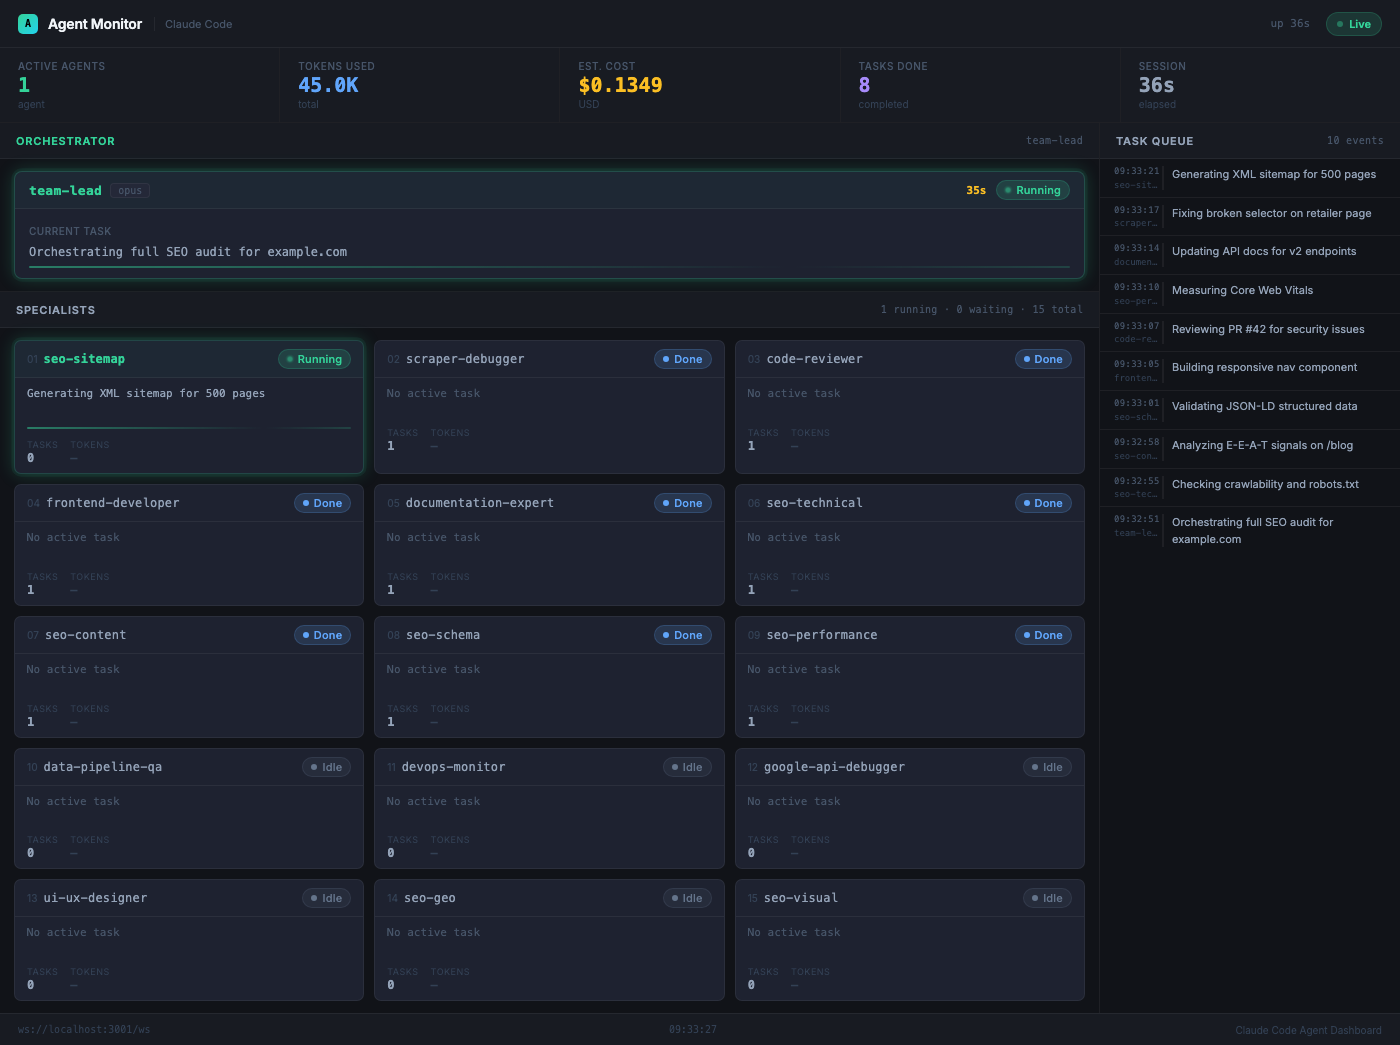
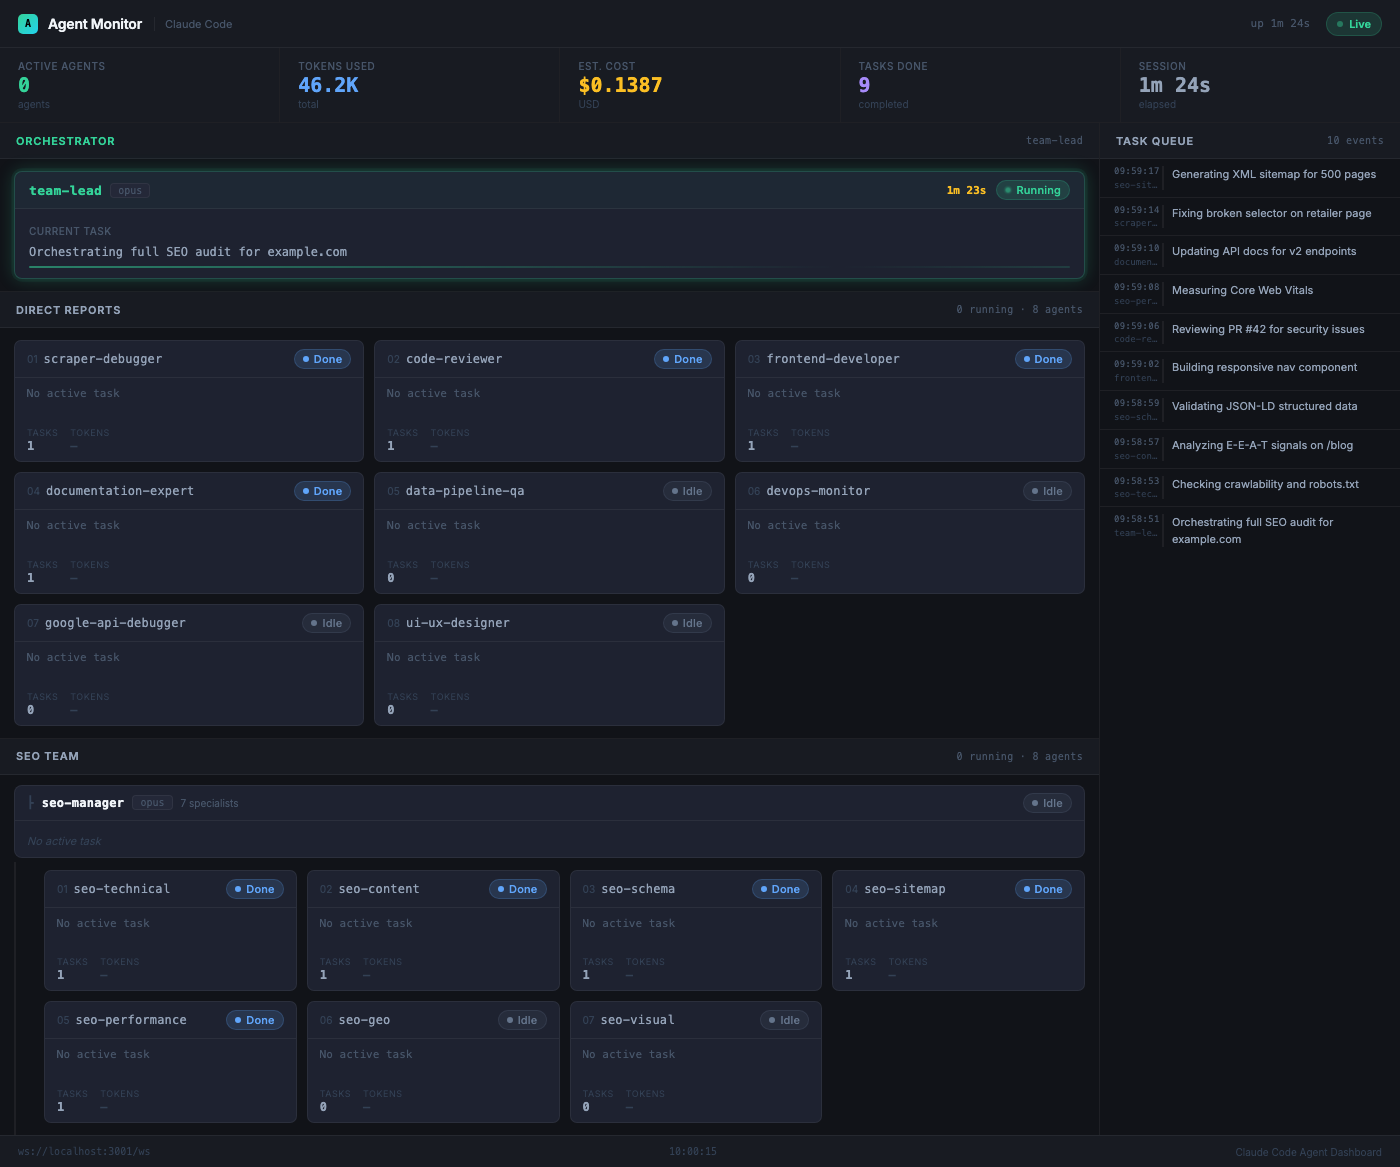
Add hierarchical agent visualization with sub-orchestrator grouping
Team-lead → direct reports + seo-manager → seo-specialists now renders
as a two-level hierarchy in the dashboard UI. README Agent Team section
updated with tree diagram and split tables.

diff --git a/frontend/src/ClaudeCodeDashboard.jsx b/frontend/src/ClaudeCodeDashboard.jsx
@@ -425,8 +425,104 @@ function TeamLeadCard({ agent, elapsedTime }) {
   );
 }
 
+// ─── Sub-orchestrator card (seo-manager) ────────────────────────────────────
+function SubOrchestratorCard({ agent, childCount }) {
+  const isRunning = agent.status === 'running';
+  const m = getStatus(agent.status);
+
+  return (
+    <div style={{
+      margin:          '10px 14px 4px',
+      borderRadius:    8,
+      border:          `1px solid ${isRunning ? T.green + '35' : T.border}`,
+      backgroundColor: T.bgSurfaceHi,
+      overflow:        'hidden',
+      animation:       isRunning ? 'breatheGreen 3s ease-in-out infinite' : 'none',
+      transition:      'border-color 0.3s ease',
+    }}>
+      <div style={{
+        display:         'flex',
+        alignItems:      'center',
+        justifyContent:  'space-between',
+        padding:         '7px 12px',
+        backgroundColor: isRunning ? 'rgba(52,211,153,0.04)' : 'transparent',
+        borderBottom:    `1px solid ${T.border}`,
+      }}>
+        <div style={{ display: 'flex', alignItems: 'center', gap: 8 }}>
+          {/* Tree connector icon */}
+          <span style={{
+            fontFamily: T.mono,
+            fontSize:   11,
+            color:      isRunning ? T.green : T.textDim,
+          }}>
+            &#9507;
+          </span>
+          <span style={{
+            fontFamily:  T.mono,
+            fontSize:    12,
+            fontWeight:  700,
+            color:       isRunning ? T.green : T.textPrimary,
+            letterSpacing: 0.3,
+          }}>
+            seo-manager
+          </span>
+          <span style={{
+            fontFamily:      T.mono,
+            fontSize:        10,
+            color:           T.textMuted,
+            backgroundColor: T.bgOverlay,
+            border:          `1px solid ${T.border}`,
+            padding:         '1px 7px',
+            borderRadius:    4,
+          }}>
+            opus
+          </span>
+          <span style={{
+            fontFamily: T.sans,
+            fontSize:   10,
+            color:      T.textMuted,
+          }}>
+            {childCount} specialists
+          </span>
+        </div>
+        <StatusBadge status={agent.status} />
+      </div>
+
+      {agent.currentTask ? (
+        <div style={{ padding: '8px 12px' }}>
+          <span style={{
+            fontFamily:  T.sans,
+            fontSize:    9,
+            color:       T.textMuted,
+            textTransform: 'uppercase',
+            letterSpacing: 0.5,
+          }}>
+            Current task
+          </span>
+          <p style={{
+            margin:     '3px 0 0',
+            fontFamily: T.mono,
+            fontSize:   11,
+            color:      T.textSecond,
+            lineHeight: 1.5,
+          }}>
+            {agent.currentTask}
+          </p>
+          <ActivityBar active={isRunning} />
+        </div>
+      ) : (
+        <div style={{ padding: '8px 12px' }}>
+          <span style={{ fontFamily: T.sans, fontSize: 11, color: T.textDim, fontStyle: 'italic' }}>
+            No active task
+          </span>
+        </div>
+      )}
+    </div>
+  );
+}
+
 // ─── Specialist card (grid item) ─────────────────────────────────────────────
-function SpecialistCard({ agent, index }) {
+function SpecialistCard({ agent, index, compact }) {
   const isRunning = agent.status === 'running';
   const isWaiting = agent.status === 'waiting';
   const m = getStatus(agent.status);
@@ -748,11 +844,20 @@ export default function ClaudeCodeDashboard() {
 
   const sessionAge = formatTime(now - agentState.globalMetrics.sessionStartTime);
 
-  // Sort: running > waiting > completed > idle
-  const sortedSpecialists = [...specialists].sort((a, b) => {
+  // Sort helper: running > waiting > completed > idle
+  const statusSort = (a, b) => {
     const order = { running: 0, waiting: 1, completed: 2, idle: 3 };
     return (order[a.status] ?? 4) - (order[b.status] ?? 4);
-  });
+  };
+
+  // Split agents into hierarchy
+  const seoSpecialistNames = ['seo-technical', 'seo-content', 'seo-schema', 'seo-sitemap', 'seo-geo', 'seo-performance', 'seo-visual'];
+  const seoManager    = specialists.find((a) => a.name === 'seo-manager') || null;
+  const seoAgents     = specialists.filter((a) => seoSpecialistNames.includes(a.name));
+  const directReports = specialists.filter((a) => a.name !== 'seo-manager' && !seoSpecialistNames.includes(a.name));
+
+  const sortedDirectReports = [...directReports].sort(statusSort);
+  const sortedSeoAgents     = [...seoAgents].sort(statusSort);
 
   return (
     <div style={{
@@ -879,22 +984,48 @@ export default function ClaudeCodeDashboard() {
             <TeamLeadCard agent={agentState.teamLead} elapsedTime={elapsedTime} />
           </div>
 
-          {/* Specialists section */}
+          {/* Direct reports section */}
+          <div style={{ borderBottom: `1px solid ${T.border}` }}>
+            <SectionHeader
+              label="Direct Reports"
+              right={`${directReports.filter(a => a.status === 'running').length} running · ${directReports.length} agents`}
+            />
+            <div style={{
+              display:             'grid',
+              gridTemplateColumns: 'repeat(auto-fill, minmax(280px, 1fr))',
+              gap:                 10,
+              padding:             '12px 14px',
+            }}>
+              {sortedDirectReports.map((agent, i) => (
+                <SpecialistCard key={agent.name} agent={agent} index={i} />
+              ))}
+            </div>
+          </div>
+
+          {/* SEO Team section — nested under seo-manager */}
           <div style={{ flex: 1 }}>
             <SectionHeader
-              label="Specialists"
-              right={`${runningCount} running · ${waitingCount} waiting · ${specialists.length} total`}
+              label="SEO Team"
+              right={`${seoAgents.filter(a => a.status === 'running').length} running · ${seoAgents.length + 1} agents`}
             />
 
-            {/* Card grid — 2 cols on wide, 1 on narrow */}
+            {/* seo-manager sub-orchestrator card */}
+            {seoManager && (
+              <SubOrchestratorCard agent={seoManager} childCount={seoAgents.length} />
+            )}
+
+            {/* SEO specialists grid — indented under seo-manager */}
             <div style={{
-              display:               'grid',
-              gridTemplateColumns:   'repeat(auto-fill, minmax(280px, 1fr))',
-              gap:                   10,
-              padding:               '12px 14px',
+              display:             'grid',
+              gridTemplateColumns: 'repeat(auto-fill, minmax(250px, 1fr))',
+              gap:                 10,
+              padding:             '8px 14px 12px 28px',
+              marginLeft:          14,
+              borderLeft:          `2px solid ${seoManager && seoManager.status === 'running' ? T.green + '40' : T.border}`,
+              transition:          'border-color 0.3s ease',
             }}>
-              {sortedSpecialists.map((agent, i) => (
-                <SpecialistCard key={agent.name} agent={agent} index={i} />
+              {sortedSeoAgents.map((agent, i) => (
+                <SpecialistCard key={agent.name} agent={agent} index={i} compact />
               ))}
             </div>
           </div>

diff --git a/README.md b/README.md
@@ -1,6 +1,6 @@
 # Claude Code Agent Monitor
 
-Real-time dashboard for monitoring Claude Code subagent activity. Built with Node.js and React, it captures lifecycle events from [Claude Code hooks](https://docs.anthropic.com/en/docs/claude-code/hooks), maintains agent state in memory, and streams updates to connected browsers over WebSocket. Supports 17 agents, a built-in demo mode, and works with any Claude Code multi-agent setup.
+Real-time dashboard for monitoring Claude Code subagent activity. Built with Node.js and React, it captures lifecycle events from [Claude Code hooks](https://docs.anthropic.com/en/docs/claude-code/hooks), persists state to SQLite, and streams updates to connected browsers over WebSocket. Supports 17 agents with hierarchical visualization, a built-in demo mode, and works with any Claude Code multi-agent setup.
 
 ---
 
@@ -8,12 +8,14 @@ Real-time dashboard for monitoring Claude Code subagent activity. Built with Nod
 
 - **Real-time monitoring** -- WebSocket push on every agent state change, no polling required
 - **Claude Code hook integration** -- captures `PreToolUse` and `PostToolUse` events from the Agent tool automatically
-- **17-agent team overview** -- orchestrator card, specialist grid, and live task queue in a single view
+- **Hierarchical agent view** -- team-lead orchestrator at top, direct reports in one group, seo-manager sub-orchestrator with 7 SEO specialists nested underneath
+- **SQLite persistence** -- agent state, metrics, and task history survive server restarts
+- **Token and cost tracking** -- extracts usage data from hook responses, tracks per-agent and global totals
+- **Auto-reconnect** -- frontend reconnects with exponential backoff (1s-15s) if the server restarts
 - **Metric strip** -- total tokens, estimated cost, active agent count, completed tasks, session uptime
 - **Demo mode** -- simulates agent activity without Claude Code running; useful for UI testing and demos
-- **REST API** -- `POST /api/event` to inject events, `GET /api/state` to snapshot the full state
-- **Zero external services** -- no database, no cloud dependency; state lives in server memory
-- **Minimal dependencies** -- server requires only `ws`; frontend uses React 19 and Vite 6
+- **REST API** -- `POST /api/event` to inject events, `GET /api/state` to snapshot, `POST /api/reset` to clear state
+- **Minimal dependencies** -- server requires `ws` and `better-sqlite3`; frontend uses React 19 and Vite
 
 ---
 
@@ -278,9 +280,32 @@ Rules:
 
 ## Agent Team
 
+The dashboard visualizes a two-level hierarchy: **team-lead** orchestrates all agents, while **seo-manager** acts as a sub-orchestrator for the 7 SEO specialists.
+
+```
+team-lead (Opus)
+├── scraper-debugger
+├── data-pipeline-qa
+├── devops-monitor
+├── google-api-debugger
+├── code-reviewer
+├── ui-ux-designer
+├── frontend-developer
+├── documentation-expert
+└── seo-manager (sub-orchestrator)
+    ├── seo-technical
+    ├── seo-content
+    ├── seo-schema
+    ├── seo-sitemap
+    ├── seo-geo
+    ├── seo-performance
+    └── seo-visual
+```
+
+### Direct Reports
+
 | # | Agent | Role |
 |---|-------|------|
-| -- | `team-lead` | Orchestrator -- delegates tasks to specialists, runs on Opus |
 | 01 | `scraper-debugger` | Diagnoses and fixes broken web scrapers and CSS selectors |
 | 02 | `data-pipeline-qa` | Validates data extraction, transformation, and pipeline integrity |
 | 03 | `devops-monitor` | Monitors infrastructure, logs, and deployment health |
@@ -289,14 +314,19 @@ Rules:
 | 06 | `ui-ux-designer` | Produces UI specifications and component designs |
 | 07 | `frontend-developer` | Implements React/JS components and frontend features |
 | 08 | `documentation-expert` | Writes and maintains technical documentation |
-| 09 | `seo-manager` | Coordinates SEO specialists and prioritizes SEO tasks |
-| 10 | `seo-technical` | Crawlability, indexability, robots.txt, canonical tags |
-| 11 | `seo-content` | E-E-A-T signals, content quality, keyword alignment |
-| 12 | `seo-schema` | JSON-LD structured data and schema validation |
-| 13 | `seo-sitemap` | XML sitemap generation and submission |
-| 14 | `seo-geo` | Hreflang, geo-targeting, international SEO |
-| 15 | `seo-performance` | Core Web Vitals, page speed, rendering performance |
-| 16 | `seo-visual` | Image optimization, alt text, visual search signals |
+
+### SEO Team (managed by seo-manager)
+
+| # | Agent | Role |
+|---|-------|------|
+| -- | `seo-manager` | Sub-orchestrator -- coordinates SEO specialists and prioritizes SEO tasks |
+| 09 | `seo-technical` | Crawlability, indexability, robots.txt, canonical tags |
+| 10 | `seo-content` | E-E-A-T signals, content quality, keyword alignment |
+| 11 | `seo-schema` | JSON-LD structured data and schema validation |
+| 12 | `seo-sitemap` | XML sitemap generation and submission |
+| 13 | `seo-geo` | Hreflang, geo-targeting, international SEO |
+| 14 | `seo-performance` | Core Web Vitals, page speed, rendering performance |
+| 15 | `seo-visual` | Image optimization, alt text, visual search signals |
 
 ---
 
